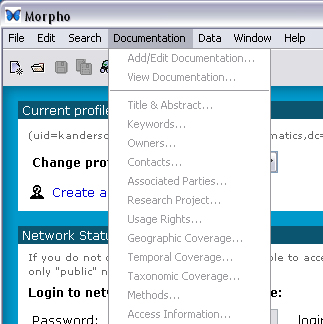
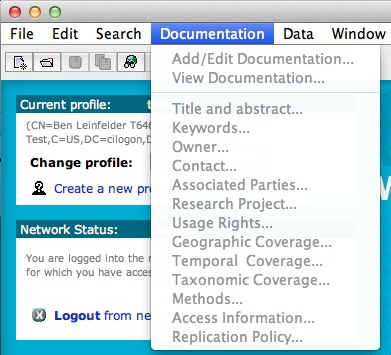
updated screenshots for items that have changed (Documentation, Data menus, login panels, profile information, etc). http://bugzilla.ecoinformatics.org/show_bug.cgi?id=5807

diff --git a/docs/user/latex/morpho-main.tex b/docs/user/latex/morpho-main.tex
@@ -30,7 +30,7 @@ The Current Profile panel (\autoref{fig:panel-profile}) contains
 information about your current user profile as well as the authentication
 identity currently in use with that profile. Your DataONE identity is the name
 appearing just below the title bar of the ``Current
-Profile'' panel and will be used thorughout the DataONE network. 
+Profile'' panel and will be used throughout the DataONE network. 
 
 \begin{figure}
   \centering
@@ -61,10 +61,18 @@ options depending on whether or not you have authenticated
   \centering
     \includegraphics[width=0.7\textwidth]{images/panel-network-status.jpg}
   \caption{The Network Status panel from the Main Morpho screen. The
-    image on the left displays the panel as it appears when not logged
+    image displays the panel as it appears when not logged
     in to the network. The image on the right displays the panel as
     it appears when logged in to the network.}
   \label{fig:panel-network-status}
+\end{figure}
+
+\begin{figure}
+  \centering
+    \includegraphics[width=0.7\textwidth]{images/panel-network-status-logged-in.jpg}
+  \caption{The Network Status panel from the Main Morpho screen. The
+    image displays the panel as it appears when logged in to the network.}
+  \label{fig:panel-network-status-logged-in}
 \end{figure}
 
 If you have not authenticated with your identity provider, you can do so 
@@ -163,7 +171,7 @@ documentation.
 
 \begin{figure}
   \centering
-    \includegraphics[width=0.5\textwidth]{images/menu-data.png}
+    \includegraphics[width=0.5\textwidth]{images/menu-data.jpg}
   \caption{The Data menu}
   \label{fig:menu-data}
 \end{figure}
